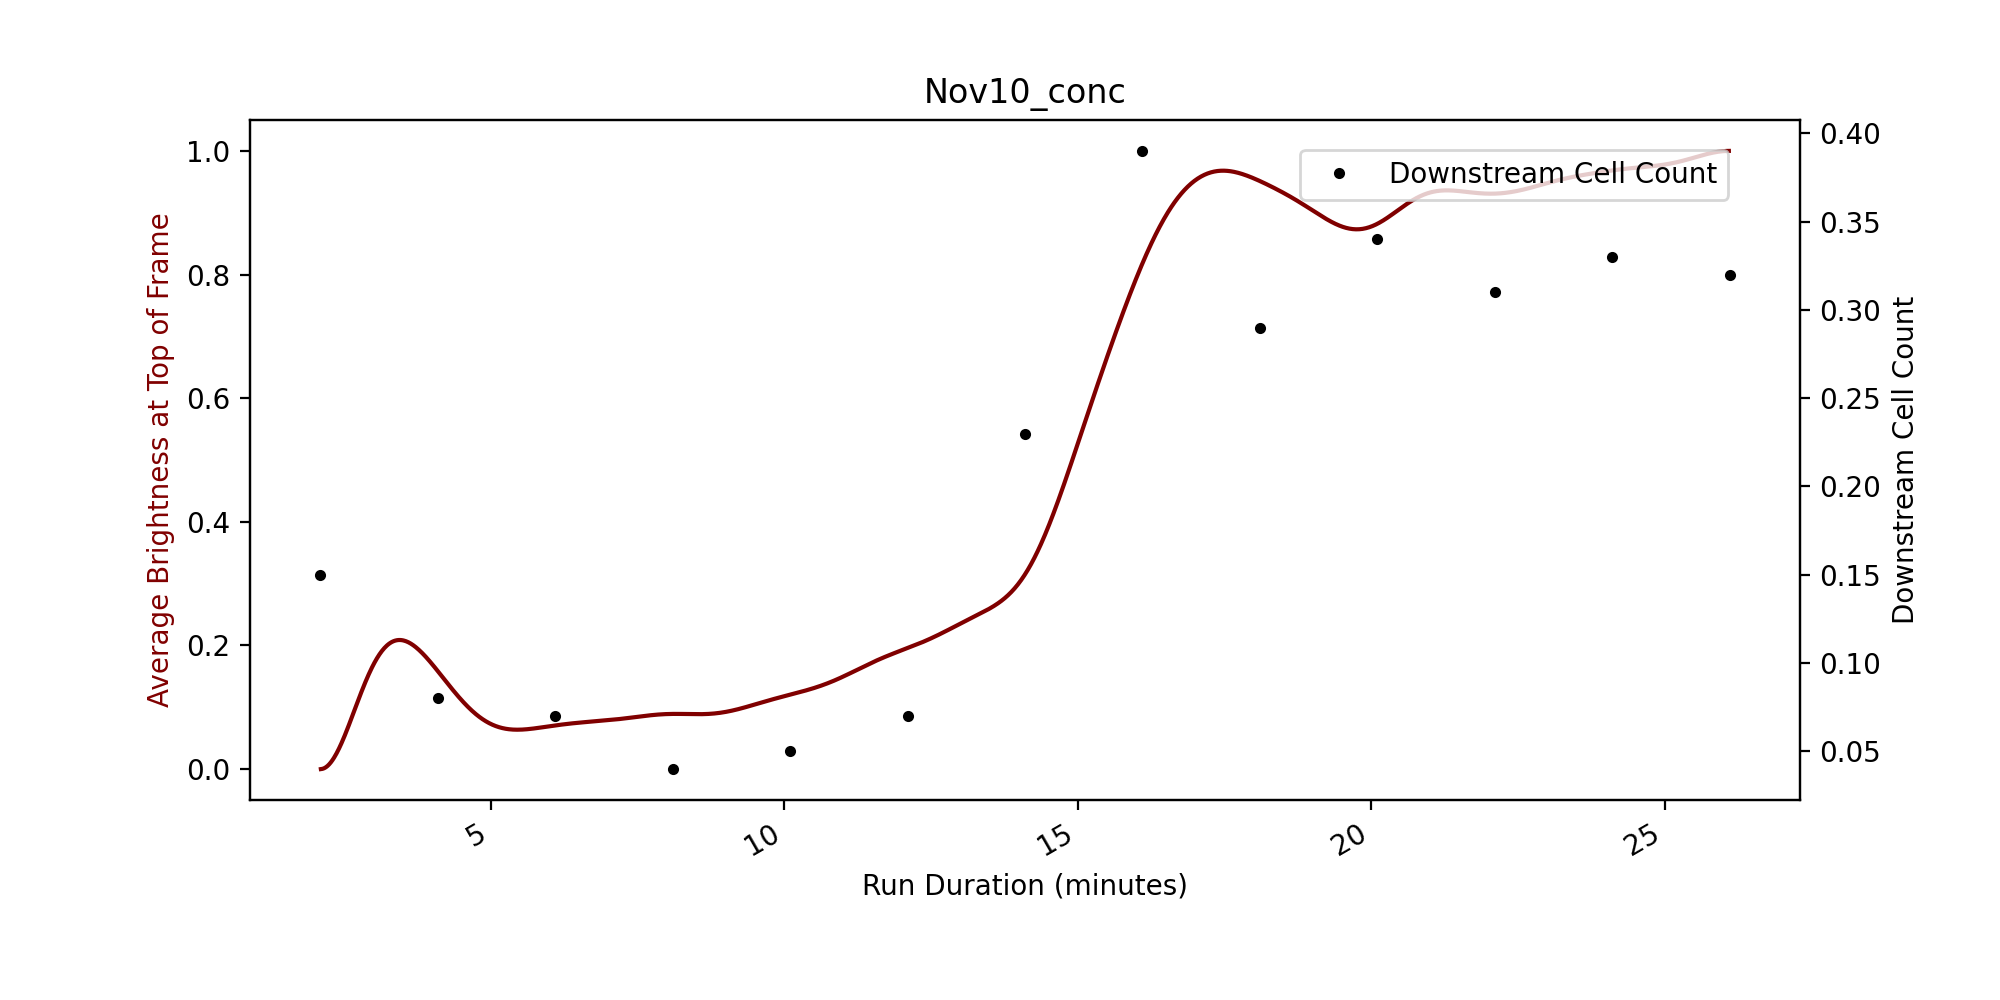
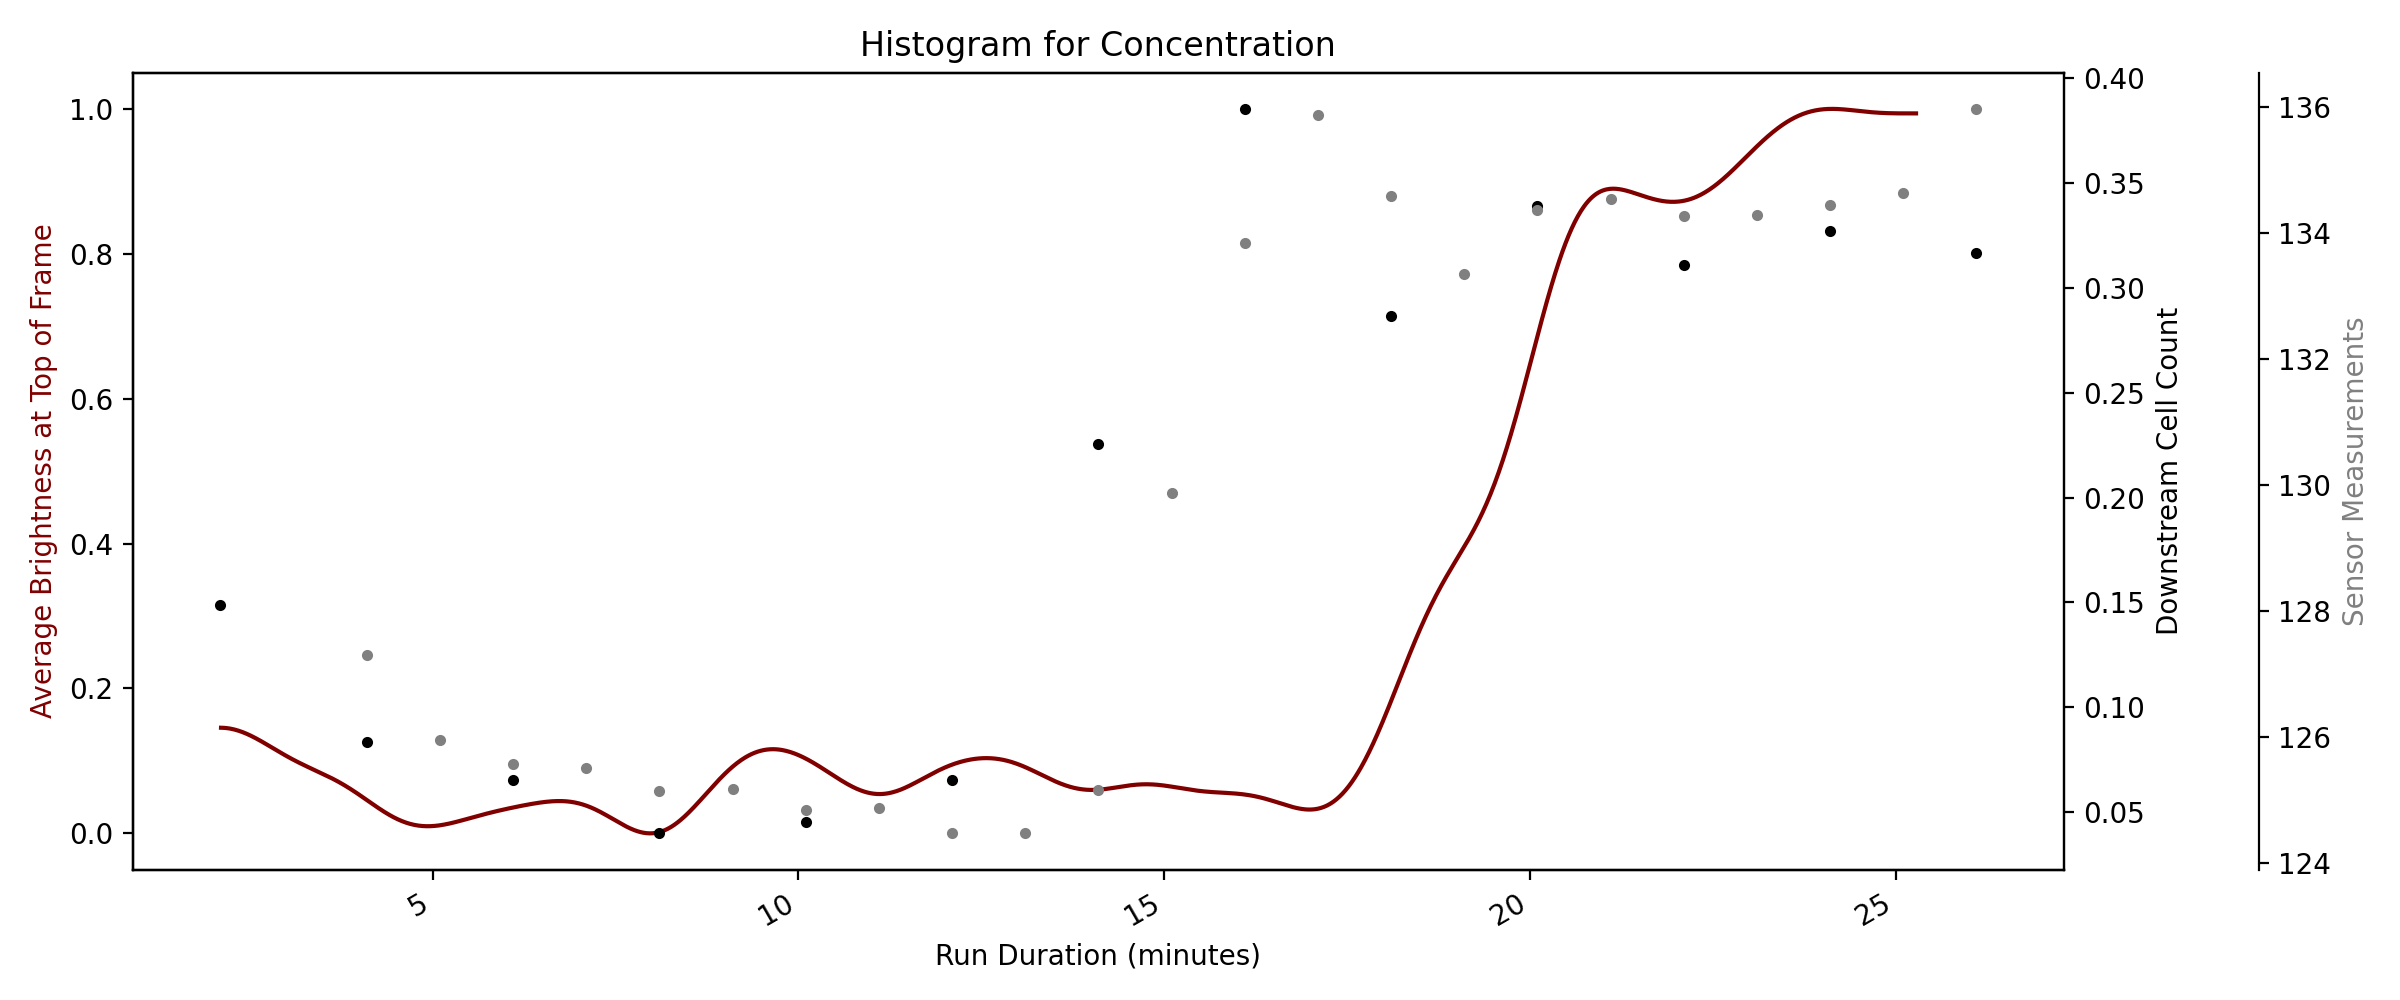
:sparkles: add sensor data to plot, update readme

diff --git a/src/histogram_pipeline.py b/src/histogram_pipeline.py
@@ -34,6 +34,7 @@ class HistogramPipeline:
         self.time_correction = time_correction
         self.brightness = self._read_sliced(path_sliced, window)
         self.cellcount = self._read_cellcount(data_dict["cells"], time_correction)
+        self.sensordata = self._read_sensordata(data_dict["sensor"], time_correction)
         self._fix_bounds()
         self._time_correct()
 
@@ -45,9 +46,11 @@ class HistogramPipeline:
     ):
         brightness = self.brightness
         cellcount = self.cellcount
-        fig, ax, ax2 = self._make_fig(title)
+        sensordata = self.sensordata
+        fig, ax, ax2, ax3 = self._make_fig(title)
         scaler = MinMaxScaler()
-        ax.plot(
+
+        p1, = ax.plot(
             brightness[:, 0],
             scaler.fit_transform(
                 scipy.ndimage.gaussian_filter1d(brightness[:, 1], sigma=40).reshape(
@@ -57,14 +60,24 @@ class HistogramPipeline:
             "maroon",
             label="Predicted Cell Loss",
         )
-        ax2.plot(
+        p2, = ax2.plot(
             cellcount[:, 0],
             cellcount[:, 1].reshape(-1, 1),
             "k.",
             label="Downstream Cell Count",
         )
-        handles, labels = ax2.get_legend_handles_labels()
-        fig.legend(handles, labels, loc=(0.65, 0.8))
+        p3, = ax3.plot(
+            sensordata[:, 0],
+            sensordata[:, 1].reshape(-1, 1),
+            color="gray",
+            marker='.',
+            linestyle="None",
+            label="Sensor Measurements",
+        )
+
+        #fig.legend(handles=[p1,p2,p3], bbox_to_anchor=(1.04,1), loc="upper left")
+        ax3.spines['right'].set_position(('outward', 70))
+        fig.tight_layout()
 
         if save:
             self._save_fig(fig, path=f"{self.out_folder}{os.sep}{filename}")
@@ -75,14 +88,18 @@ class HistogramPipeline:
     def _make_fig(self, title):
         fig, ax = plt.subplots(dpi=200)
         fig.set_figheight(5)
-        fig.set_figwidth(10)
+        fig.set_figwidth(12)
         fig.autofmt_xdate()
         ax.set_xlabel("Run Duration (minutes)")
         ax.set_title(title)
         ax.set_ylabel("Average Brightness at Top of Frame", color="maroon", fontsize=10)
         ax2 = ax.twinx()
         ax2.set_ylabel("Downstream Cell Count", color="black", fontsize=10)
-        return fig, ax, ax2
+
+        ax3 = ax.twinx()
+        ax3.set_ylabel("Sensor Measurements", color="grey", fontsize=10)
+
+        return fig, ax, ax2, ax3
 
     def _fix_bounds(self):
         cellcount = self.cellcount
@@ -95,12 +112,9 @@ class HistogramPipeline:
         self.brightness = brightness[min_bright:max_bright]
 
     def _time_correct(self):
-        cellcount = self.cellcount
-        brightness = self.brightness
-        cellcount[:, 0] = (cellcount[:, 0]) / 60
-        brightness[:, 0] = brightness[:, 0] / 60
-        self.brightness = brightness
-        self.cellcount = cellcount
+        self.cellcount[:, 0] = self.cellcount[:, 0] / 60
+        self.brightness[:, 0] = self.brightness[:, 0] / 60
+        self.sensordata[:, 0] = self.sensordata[:, 0] / 60
 
     def _read_sliced(self, path_sliced: str, window: tuple, avg_window: int = 5):
         sliced = np.loadtxt(path_sliced, delimiter=",")
@@ -117,5 +131,11 @@ class HistogramPipeline:
     def _read_cellcount(self, cellcount, time_correction: int):
         cellcount = cellcount.values
         cellcount[:, 0] = cellcount[:, 0] - time_correction
-        cellcount = np.array(cellcount)
         return cellcount
+
+    def _read_sensordata(self, sensordata, time_correction: int):
+        sensordata=  sensordata.values
+        sensordata[:, 0] =  sensordata[:, 0] - time_correction
+        return sensordata
+
+    

diff --git a/README.md b/README.md
@@ -13,7 +13,7 @@ Each time the camera is positioned relative to the resonator, the exact pixel co
 
 ![](docs/images/matches.jpg "ORB feature matching")
 
-Once the videos are matches, the average resonator intensity is extracted as a csv file and the histograms are plotted alongside the ground-truth data extracted from downstream live cell counts and a resistance sensor. The output plots of the pipeline are shown below:
+Once the videos are matches, the average resonator intensity is extracted as a csv file and the histograms are plotted alongside the ground-truth data extracted from downstream live cell counts and a resistance sensor. An example of the pipeline's output is shown below:
 
 ![](docs/images/results.png "Conc") 
 
